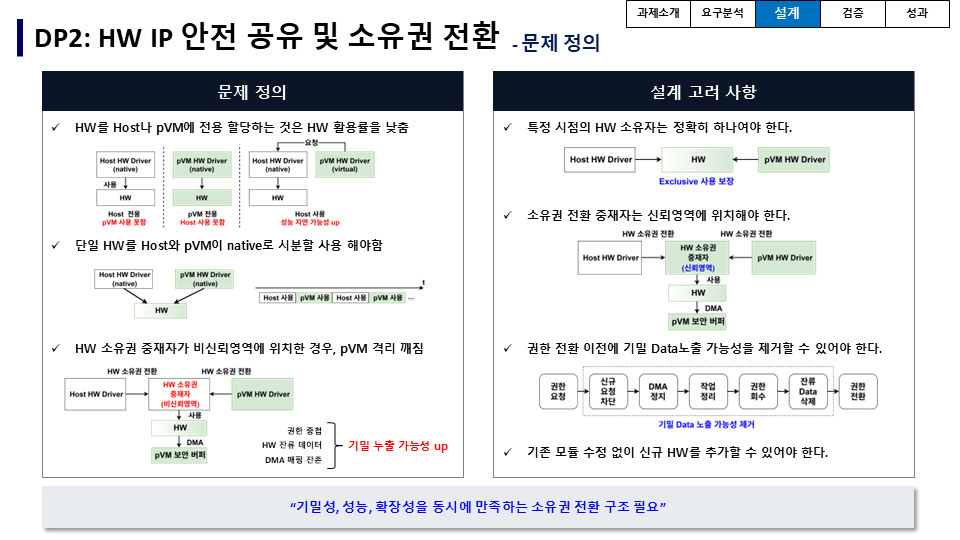
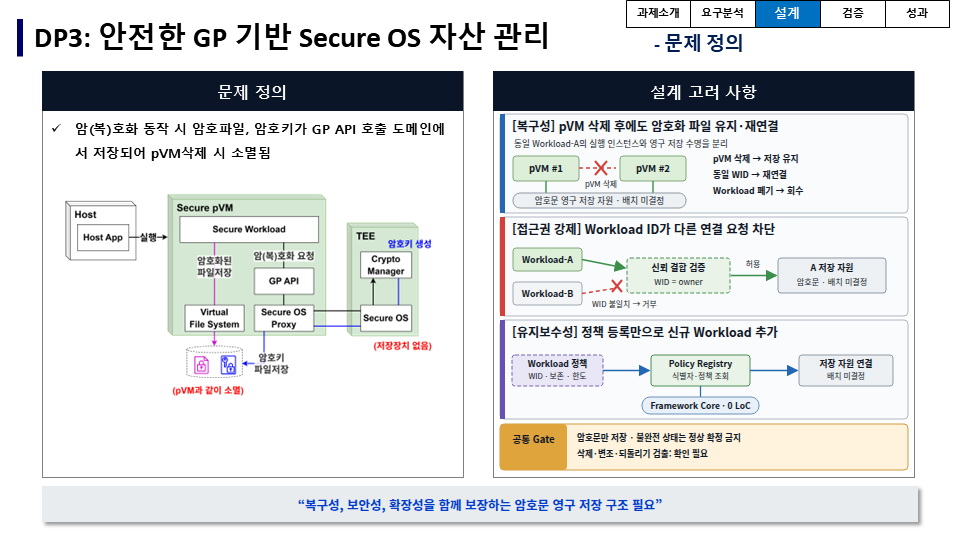
슬라이드 16 설계 고려 사항 다이어그램 보강

diff --git a/docs-align/슬라이드14_16_설계고려사항_다이어그램_검토.md b/docs-align/슬라이드14_16_설계고려사항_다이어그램_검토.md
@@ -1,0 +1,264 @@
+# 슬라이드 14~16 설계 고려 사항과 다이어그램 검토
+
+## 1. 목적과 범위
+
+이 문서는 다음 슬라이드의 `설계 고려 사항` 문구와 다이어그램을 검토하고, 슬라이드 16의 보강안을 구체화한다.
+
+- 슬라이드 14: `DP1: 성능과 기밀성이 보장되는 pVM간 Data 공유`
+- 슬라이드 15: `DP2: HW IP 안전 공유 및 소유권 전환`
+- 슬라이드 16: `DP3: 안전한 GP 기반 Secure OS 자산 관리`
+
+슬라이드의 DP 번호와 현행 문서의 문제·DP 번호는 다르므로 제목과 결정 내용으로 연결했다.
+
+| 슬라이드 | 품질 위협 문서 | 현행 DP 계열 |
+|---|---|---|
+| 14, pVM 간 Data 공유 | `품질위협_문제2_pVM간_데이터전달.md` | DP-03, DP-03-A/B/C |
+| 15, HW IP 공유 | `품질위협_문제1_HW공유_기밀데이터_노출.md` | DP-04, DP-07 |
+| 16, Secure OS 자산 관리 | `품질위협_문제3_pVM수명_암호화파일_유실.md` | DP-06 |
+
+후보 구조를 설명하는 다음 슬라이드와 역할이 겹치지 않도록, 이 문서의 다이어그램은 모든 후보가 만족해야 할
+불변조건과 실패 경로만 표현한다.
+
+## 2. 핵심 결론
+
+1. 슬라이드 16의 세 문장은 방향은 맞지만 품질 속성명과 확장 단위가 현행 요구사항과 어긋난다.
+   - `신뢰성`은 구체적으로 `복구성`으로 표현한다.
+   - 다른 Workload의 연결 차단은 단순 기밀성보다 `접근권 강제`가 직접적인 품질 속성이다.
+   - 확장 단위는 새 pVM 인스턴스가 아니라 `신규 Workload와 저장 정책`이다.
+2. 슬라이드 16은 세 문장을 세로 카드로 나누고 `수명주기`, `신원 결합 검증`, `정책 기반 확장`을 각각 작은
+   다이어그램으로 설명하는 구성이 가장 읽기 쉽다.
+3. 슬라이드 14와 15는 정상 경로 중심으로 구성돼 있어 오류·시간 초과·비정상 종료 시의 안전한 격리와 복구가
+   보이지 않는다. 기존 그림에 빨간 실패 분기를 추가하는 것이 최우선 보강 사항이다.
+4. 저장 서비스, 공유 버퍼 자료구조와 HW 스케줄러의 실행 위치는 아직 후보 비교 대상이므로 문제 정의 슬라이드에서
+   특정 위치나 구현으로 확정하면 안 된다.
+5. 슬라이드 16 하단 결론은 DP1의 `pVM간 Data 공유 구조 필요` 문구가 복사된 상태이므로 DP3의 영구 저장 문제에
+   맞게 교정해야 한다.
+
+## 3. 슬라이드 16 상세 보강안
+
+### 3.1 문장 정리
+
+| 기존 문장 | 검토 결과 | 슬라이드용 최종 문장 | 연결 품질 속성 |
+|---|---|---|---|
+| 암호화 파일의 수명은 pVM의 수명으로부터 독립적이어야 한다. | 방향은 정확하지만 재연결과 회수 시점이 보이지 않는다. | **pVM 삭제 후에도 암호화 파일 유지·재연결** | QA-07 복구성 |
+| 다른 Workload의 연결 요청을 차단해야 한다. | `기밀성`보다 Workload 신원과 저장 공간의 결합을 강제하는 조건이다. | **Workload ID가 다른 연결 요청 차단** | QA-04 무결성 및 접근권 강제 |
+| 기존 모듈 수정 없이 새로운 pVM을 추가할 수 있어야 한다. | pVM 재생성은 운용 수명주기이고, 설계 확장 단위는 Workload와 저장 정책이다. | **정책 등록만으로 신규 Workload 추가** | QA-08 적응성·모듈성 |
+
+### 3.2 카드 1 — pVM 수명과 저장 수명 분리
+
+목적은 pVM 삭제와 Workload 폐기가 서로 다른 사건임을 한눈에 보여 주는 것이다.
+
+```text
+Workload-A 실행
+
+┌────────┐       pVM 삭제       ┌────────┐
+│ pVM #1 │ ──────────X────────→ │ pVM #2 │
+└───┬────┘                       └───┬────┘
+    │ 저장                           │ 동일 WID로 재연결
+    ▼                                ▼
+┌──────────────────────────────────────────┐
+│ 암호문 영구 저장 자원 — 배치 위치 미결정 │
+└──────────────────────────────────────────┘
+        유지 ────────────────────────▶
+
+pVM 삭제: 저장 유지 / Workload 폐기: 저장·메타데이터 회수
+```
+
+다이어그램 구성:
+
+- `pVM #1`과 `pVM #2`는 같은 녹색 계열로 표시하고 둘 다 `Workload-A`라고 표기한다.
+- pVM 사이에는 빨간 `X`를 넣어 인스턴스가 연속되지 않음을 표현한다.
+- 저장 자원은 pVM 박스 밖의 회색 레인으로 두고 `암호문`, `배치 위치 미결정`을 명시한다.
+- pVM #2의 연결 결과는 단순 mount가 아니라 신원·버전·내용 검증을 통과한 정상 확정본임을 설명한다.
+- 삭제·변조·되돌리기 검출 메커니즘은 아직 공통 확인 필요 gate이므로 특정 기술이나 완료 상태로 그리지 않는다.
+
+짧은 캡션: `삭제해도 유지 · 동일 Workload 재연결 · 폐기 시 회수`
+
+### 3.3 카드 2 — Workload 신원과 저장 공간 결합
+
+목적은 Host가 제시한 경로나 이름이 아니라 신뢰할 수 있는 Workload 식별자와 저장 공간 소유 관계로 연결을
+판정함을 보여 주는 것이다.
+
+```text
+┌──────────────┐       ┌────────────────┐       ┌──────────────┐
+│ Workload-A   │ ────▶ │ 신뢰 결합 검증 │ ────▶ │ A 저장 자원  │
+│ 연결 요청    │       │ WID == owner   │ 허용  │ 암호문       │
+└──────────────┘       └────────────────┘       └──────────────┘
+
+┌──────────────┐                  X
+│ Workload-B   │ ───────────────▶ 거부
+│ 교차 연결    │        WID != owner
+└──────────────┘
+```
+
+다이어그램 구성:
+
+- 허용 경로는 녹색, 교차 Workload 요청은 빨간 점선과 `X`로 표시한다.
+- 판정 입력은 `검증된 WID`, `저장 자원 owner`, `연결 정책`으로 한정한다.
+- Host가 요청을 전달할 수는 있지만 신원 결합 결과를 바꿀 수 없음을 작은 회색 캡션으로 표시한다.
+- 오래된 버전 검출을 이미 해결된 연결 절차로 그리지 않는다. 비-RPMB 무결성·재생 방지는 별도 확인 필요 gate다.
+
+짧은 캡션: `동일 WID 허용 · 교차 Workload 거부`
+
+### 3.4 카드 3 — 정책 기반 확장
+
+목적은 pVM 종류별 분기 코드를 Framework 코어에 추가하는 방식이 아니라 정책과 식별자 데이터를 등록해 신규
+Workload를 연결하는 구조를 보여 주는 것이다.
+
+```text
+┌────────────────┐     ┌────────────────┐     ┌────────────────────┐
+│ Workload 정책  │ ──▶ │ Policy Registry│ ──▶ │ 영구 저장 자원 연결 │
+│ WID·보존·한도  │     │ 식별자·정책 조회│     │ 배치 위치 미결정     │
+└────────────────┘     └───────┬────────┘     └────────────────────┘
+                                │
+                         ┌──────▼──────┐
+                         │ Framework   │
+                         │ Core 0 LoC  │
+                         └─────────────┘
+```
+
+다이어그램 구성:
+
+- 신규 Workload는 점선 외곽선으로 표시해 런타임 확장임을 보여 준다.
+- 정책 데이터에는 WID, 보존 수명, 자원 한도와 연결 정책을 예시로 넣는다.
+- `Framework Core 0 LoC`를 잠금 표시와 함께 배치한다.
+- `공통 Storage Adapter`처럼 파일 입출력 주체를 하나로 고정하는 박스는 사용하지 않는다. 이는 DP-06 후보 A/B를
+  미리 결정할 수 있다.
+
+짧은 캡션: `정책 추가 · 코어 변경 없음`
+
+### 3.5 하단 공통 gate
+
+세 카드 아래에 다음 공통 gate를 한 줄 또는 두 줄의 연한 주황색 띠로 표시한다.
+
+> **공통 Gate:** 저장 경로에는 암호문만 전달 · 불완전 상태는 정상 확정 금지 · 삭제·변조·되돌리기 검출은 확인 필요
+
+이 띠는 현재 세 문장만으로 빠지는 기밀성, 저장 상태 정확성과 비-RPMB 무결성 위험을 보완한다. 다만 확인 필요
+항목을 해결 완료로 표현하지 않는다.
+
+### 3.6 최종 레이아웃
+
+슬라이드 16의 오른쪽 패널을 다음처럼 사용한다.
+
+```text
+┌──────────────────────── 설계 고려 사항 ────────────────────────┐
+│ [복구성] pVM 삭제 후에도 암호화 파일 유지·재연결              │
+│   pVM #1 ──X── pVM #2 / 아래에 끊기지 않는 암호문 저장 레인    │
+├────────────────────────────────────────────────────────────────┤
+│ [접근권 강제] Workload ID가 다른 연결 요청 차단                │
+│   W-A ─▶ 신뢰 결합 검증 ─▶ 저장 A / W-B ──X                    │
+├────────────────────────────────────────────────────────────────┤
+│ [유지보수성] 정책 등록만으로 신규 Workload 추가                │
+│   정책 ─▶ Registry ─▶ 저장 연결 / Framework Core 0 LoC         │
+├────────────────────────────────────────────────────────────────┤
+│ 공통 Gate: 암호문 only · 불완전 상태 미확정 · 재생 방지 확인 필요│
+└────────────────────────────────────────────────────────────────┘
+```
+
+패널의 세 카드는 같은 높이로 배치하고, 문장과 다이어그램을 합쳐 카드당 구성요소를 네 개 이하로 제한한다.
+
+### 3.7 하단 결론 문구 교정
+
+현재 문구인 `기밀성, 확장성을 동시에 보장하는 pVM간 Data 공유 구조 필요`는 슬라이드 14의 문제를 설명하므로
+슬라이드 16과 맞지 않는다. 다음 문구로 교체한다.
+
+> **복구성, 보안성, 확장성을 함께 보장하는 암호문 영구 저장 구조 필요**
+
+## 4. 슬라이드 14 검토 — pVM 간 Data 공유
+
+### 4.1 현재 내용의 정확성
+
+| 현재 고려 사항 | 현재 표현의 한계 | 보강 권고 | 우선순위 |
+|---|---|---|---:|
+| Zero-copy로 최소 시간 공유 | `최소 시간`은 판정 기준이 아니며, 그림의 `암호화 필요 없음`, `Raw data 전송 필요 없음`은 과도한 단정이다. | `payload 복사 없이 동일 물리 페이지의 접근권만 전환`과 `할당된 전달 지연·처리량 예산 충족`으로 수정한다. | P0 |
+| Host는 제어 중계 가능, Data 접근 불가 | Host만 배제하고 제3 pVM, 접근 기간과 CPU/DMA 권한 동기화를 표현하지 않는다. | `Host·제3 pVM 비매핑`, `해당 세대·필요 기간에만 접근`, `Stage-2와 SMMU/S2MPU 동시 전환`을 표시한다. | P0 |
+| 기존 모듈 수정 없이 pVM 쌍 추가 | 텍스트만 있고 확장 경로가 없다. | `Endpoint/Policy 등록 → Core 변경 없이 새 송수신 관계 추가` 미니 다이어그램을 넣는다. | P1 |
+
+`암호화 필요 없음`은 zero-copy의 필연적인 결과가 아니다. 이 DP의 공통 보장 조건은 Host가 payload를 매핑하지 못하고
+보호 영역이 접근권을 강제하는 것이며, 암호화 사용 여부는 별도 위협과 경로에 따라 달라질 수 있다.
+
+### 4.2 빠진 설계 고려 사항
+
+1. **버퍼 상태 정확성:** owner, access mode, generation과 상태를 신뢰 영역에 기록해야 한다.
+2. **오류 회수:** 시간 초과나 pVM 비정상 종료 시 새 사용권을 부여하지 않고 버퍼를 회수하거나 폐기해야 한다.
+3. **자원 상한:** 버퍼 풀이 상한에 도달하면 흐름을 제어해 할당이 무한정 증가하지 않아야 한다.
+
+권장 보강 그림은 특정 ring이나 페이지 대여 구조를 선택하지 않고 다음 추상 상태만 보여 준다.
+
+```text
+CAMERA_OWNED → IN_TRANSFER → AI_OWNED → RECLAIMING → FREE
+                       └─ timeout / pVM 종료 ─▶ 격리·회수
+```
+
+현재 슬라이드가 이미 조밀하므로 새 큰 그림을 추가하지 않는다. 기존 첫 번째 그림 아래에 위 상태 스트립을 넣고,
+오류 분기는 빨간 화살표 한 개로 표시한다. 유지보수성 문장 아래의 빈 영역에는 작은 `Endpoint/Policy Registry` 그림을
+추가한다.
+
+## 5. 슬라이드 15 검토 — HW IP 공유와 소유권 전환
+
+### 5.1 현재 내용의 정확성
+
+| 현재 고려 사항 | 현재 표현의 한계 | 보강 권고 | 우선순위 |
+|---|---|---|---:|
+| 특정 시점의 HW 소유자는 정확히 하나 | 전환·격리 중 접근권 보유자가 0인 상태와 정상 단일 소유 상태가 구분되지 않는다. | `정상 상태는 단일 소유, 전환·오류 상태는 무권한 격리, 동시 권한은 항상 금지`로 정교화한다. | P0 |
+| 소유권 전환 중재자는 신뢰영역 | 중재자 한 박스만 있고 CPU와 DMA 접근권의 별도 강제가 보이지 않는다. | 중재자 아래에 `Stage-2/MMIO`와 `SMMU/S2MPU/DMA` 두 집행 레인을 분리한다. | P1 |
+| 권한 전환 전 기밀 Data 노출 가능성 제거 | 정상 전환 순서만 있고 실패·시간 초과 경로가 없다. | 각 단계 실패 시 `QUARANTINED`로 가는 빨간 분기와 재개 전 검증을 추가한다. | P0 |
+| 기존 모듈 수정 없이 신규 HW 추가 | 텍스트만 있고 HW별 차이의 분리 위치가 없다. | 고정된 코어 상태기계 옆에 `HW Policy/Adapter: quiesce·reset·zeroize` 플러그인 그림을 넣는다. | P1 |
+
+### 5.2 전환 순서 보강
+
+현재 6단계 그림은 다음 순서를 명확히 해야 한다.
+
+```text
+요청 차단 → DMA 정지·완료 확인 → pending transaction drain
+          → MMIO·DMA·IRQ 권한 회수 → 잔류 상태 소거·검증
+          → 새 소유자 권한 부여
+
+모든 단계의 실패/시간 초과 ─▶ QUARANTINED ─▶ 검증 성공 시에만 재개
+```
+
+잔류 상태는 DMA 버퍼만 의미하지 않는다. MMIO 레지스터, DMA 작업 목록, 내부 SRAM·캐시와 IRQ 상태를 함께
+표시해야 한다.
+
+### 5.3 확장성 보강
+
+```text
+┌────────────────────┐       ┌──────────────────────────────┐
+│ Framework Core     │       │ HW Policy / Adapter          │
+│ 공통 상태기계 유지 │ ◀──── │ quiesce·drain·reset·zeroize  │
+│ 변경 0 LoC         │       │ 신규 HW IP별 추가            │
+└────────────────────┘       └──────────────────────────────┘
+```
+
+이 그림은 전환 실행 순서와 요청 큐를 Host에 둘지 EL2에 둘지 결정하지 않는다. 또한 HW를 교대 할당할지 서비스 pVM에
+고정할지도 표현하지 않아 후보 구조 비교를 침범하지 않는다.
+
+## 6. 공통 시각 언어
+
+세 슬라이드는 다음 표기를 통일한다.
+
+| 표현 | 의미 |
+|---|---|
+| 연녹색 박스 | 신뢰·격리된 pVM 또는 검증 주체 |
+| 회색 박스 | 비신뢰 Host/저장 경로 또는 배치 미결정 자원 |
+| 파란 실선 | 정상 제어·허용 경로 |
+| 초록 실선 | 보호된 데이터 또는 정상 재연결 경로 |
+| 빨간 점선과 X | 차단, 실패, 시간 초과 또는 비인가 요청 |
+| 자물쇠/굵은 외곽선 | 신뢰 영역이 강제하는 상태나 정책 |
+
+캡션은 8~12자 정도로 유지하고, 상세 검증 수치는 후속 검증 슬라이드나 문서에 둔다.
+
+## 7. 후보 중립성 주의 사항
+
+- 슬라이드 16의 영구 저장 자원을 Host나 pVM 내부에 고정하지 않는다.
+- 슬라이드 14의 버퍼를 ring, 중앙 pool 또는 송신자 local DMA-BUF 중 하나로 그리지 않는다.
+- 슬라이드 15의 재개 승인자를 Host나 EL2 중 하나로 확정하지 않고 `신뢰 검증 주체`로 표시한다.
+- 비-RPMB 삭제·변조·되돌리기 검출을 해결 완료로 표현하지 않는다. 현재는 확인 필요 공통 gate다.
+- `최소 시간`, `암호화 불필요`처럼 근거와 범위가 없는 절대 표현을 사용하지 않는다.
+
+## 8. 반영 결과
+
+- 슬라이드 16 PNG의 오른쪽 패널을 세 개의 설명 카드와 공통 gate로 보강한다.
+- 슬라이드 14와 15는 이 문서에 보강 우선순위와 구체적인 그림 사양을 남기며, 현재 PNG는 변경하지 않는다.
+
+관련 이미지: [슬라이드 16](SW_Architect_개인과제/슬라이드16.PNG)
